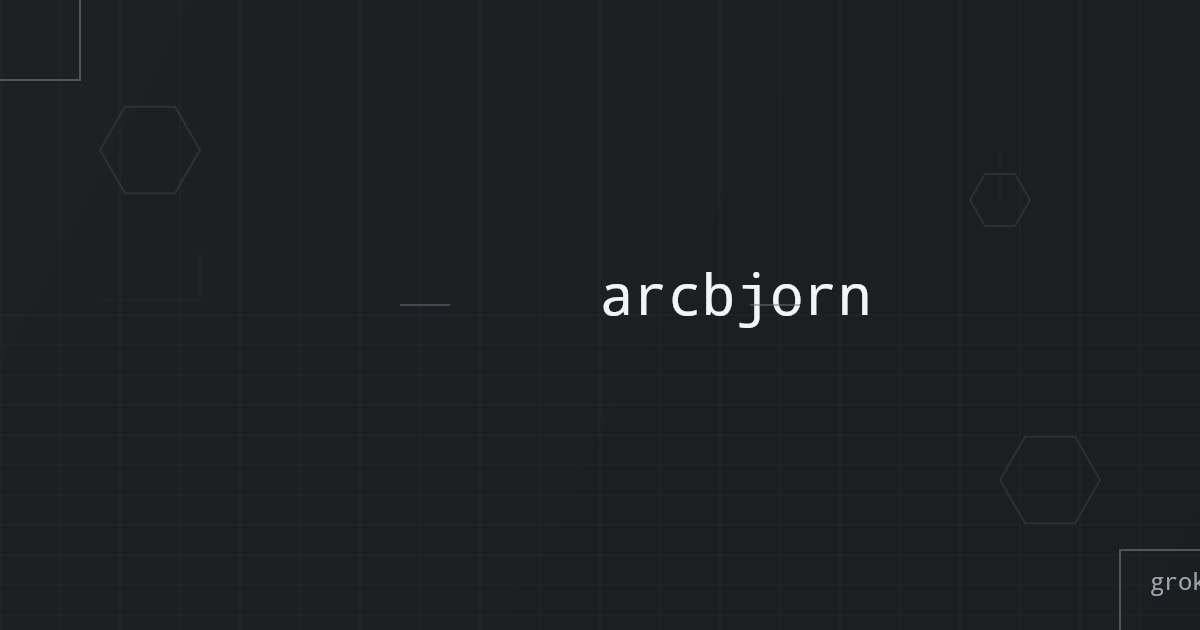
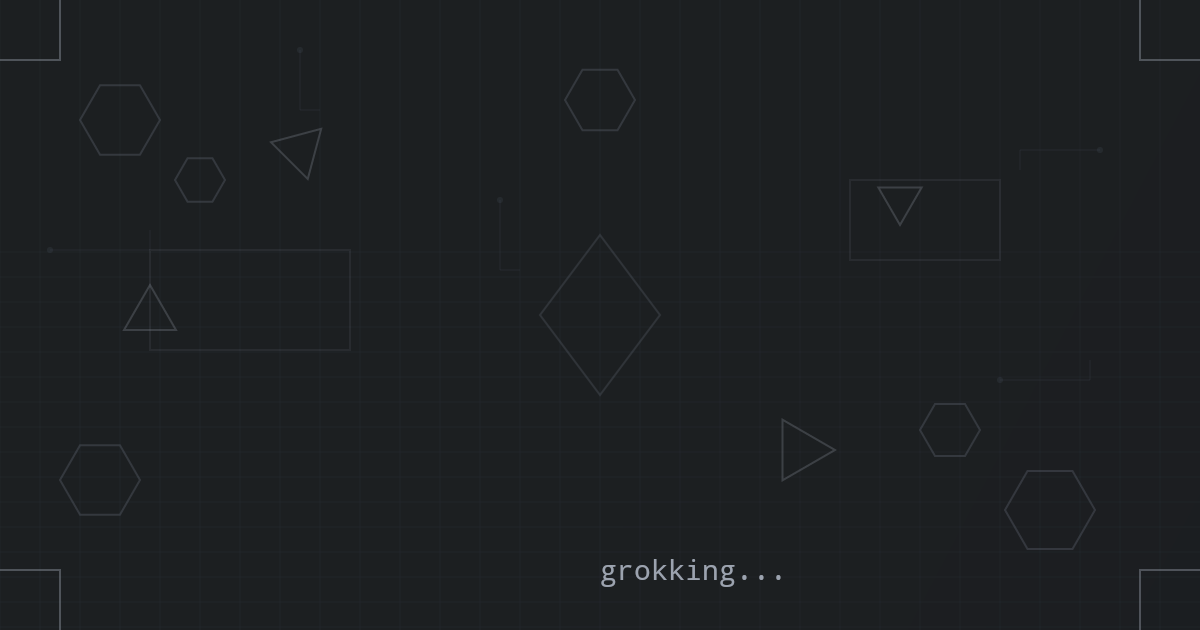
feat: enhance cyberpunk OG image with more shapes
- Add multiple geometric shapes: hexagons, triangles, circuits, frames
- Remove "arcbjorn" text for cleaner visual design
- Move "grokking..." to center bottom position
- Add corner accents on all four corners
- Include diamond shape and rectangular frames
- Maintain monochrome palette with website colors only

diff --git a/scripts/generate-og-image.ts b/scripts/generate-og-image.ts
@@ -13,10 +13,10 @@ ctx.fillRect(0, 0, width, height);
 // Subtle grid effect using website gray
 ctx.strokeStyle = "#374151";
 ctx.lineWidth = 1;
-ctx.globalAlpha = 0.2;
+ctx.globalAlpha = 0.15;
 
 // Vertical lines
-for (let x = 0; x < width; x += 60) {
+for (let x = 0; x < width; x += 40) {
   ctx.beginPath();
   ctx.moveTo(x, 0);
   ctx.lineTo(x, height);
@@ -24,7 +24,7 @@ for (let x = 0; x < width; x += 60) {
 }
 
 // Horizontal lines with perspective
-for (let y = height * 0.5; y < height; y += 30) {
+for (let y = height * 0.4; y < height; y += 25) {
   ctx.beginPath();
   ctx.moveTo(0, y);
   ctx.lineTo(width, y);
@@ -35,31 +35,12 @@ ctx.globalAlpha = 1;
 
 // Very subtle gradient using grays only
 const gradient = ctx.createLinearGradient(0, 0, width, height);
-gradient.addColorStop(0, "rgba(55, 65, 81, 0.1)"); // #374151 with low opacity
-gradient.addColorStop(1, "rgba(31, 41, 55, 0.1)"); // #1f2937 with low opacity
+gradient.addColorStop(0, "rgba(55, 65, 81, 0.05)");
+gradient.addColorStop(1, "rgba(31, 41, 55, 0.1)");
 ctx.fillStyle = gradient;
 ctx.fillRect(0, 0, width, height);
 
-// Geometric shapes in gray
-ctx.strokeStyle = "#9ca3af"; // Website gray color
-ctx.lineWidth = 2;
-ctx.globalAlpha = 0.4;
-
-// Top left corner accent
-ctx.beginPath();
-ctx.moveTo(0, 80);
-ctx.lineTo(80, 80);
-ctx.lineTo(80, 0);
-ctx.stroke();
-
-// Bottom right corner accent
-ctx.beginPath();
-ctx.moveTo(width, height - 80);
-ctx.lineTo(width - 80, height - 80);
-ctx.lineTo(width - 80, height);
-ctx.stroke();
-
-// Hexagon shapes
+// Function to draw various cyberpunk shapes
 function drawHexagon(x: number, y: number, size: number) {
   ctx.beginPath();
   for (let i = 0; i < 6; i++) {
@@ -73,61 +54,123 @@ function drawHexagon(x: number, y: number, size: number) {
   ctx.stroke();
 }
 
-ctx.globalAlpha = 0.2;
-ctx.strokeStyle = "#6b7280"; // Gray-500
-drawHexagon(150, 150, 50);
-drawHexagon(width - 150, height - 150, 50);
-drawHexagon(width - 200, 200, 30);
+function drawTriangle(x: number, y: number, size: number, rotation: number = 0) {
+  ctx.save();
+  ctx.translate(x, y);
+  ctx.rotate(rotation);
+  ctx.beginPath();
+  ctx.moveTo(0, -size);
+  ctx.lineTo(-size * 0.866, size * 0.5);
+  ctx.lineTo(size * 0.866, size * 0.5);
+  ctx.closePath();
+  ctx.stroke();
+  ctx.restore();
+}
 
-// Main text - arcbjorn
-ctx.globalAlpha = 1;
-ctx.fillStyle = "#f3f4f6"; // Website light gray
-ctx.font = "bold 56px monospace";
-ctx.textAlign = "center";
-ctx.fillText("arcbjorn", width / 2, height / 2);
+function drawCircuit(x: number, y: number, length: number, direction: string) {
+  ctx.beginPath();
+  ctx.moveTo(x, y);
+  if (direction === 'right') {
+    ctx.lineTo(x + length, y);
+    ctx.lineTo(x + length, y - 20);
+  } else if (direction === 'left') {
+    ctx.lineTo(x - length, y);
+    ctx.lineTo(x - length, y + 20);
+  } else if (direction === 'down') {
+    ctx.lineTo(x, y + length);
+    ctx.lineTo(x + 20, y + length);
+  }
+  ctx.stroke();
+  
+  // Add connection dots
+  ctx.beginPath();
+  ctx.arc(x, y, 3, 0, Math.PI * 2);
+  ctx.fill();
+}
 
-// Tech accent lines around text in gray
+// Multiple hexagons
+ctx.globalAlpha = 0.3;
 ctx.strokeStyle = "#6b7280";
 ctx.lineWidth = 2;
-ctx.globalAlpha = 0.5;
+drawHexagon(120, 120, 40);
+drawHexagon(200, 180, 25);
+drawHexagon(width - 150, height - 120, 45);
+drawHexagon(width - 250, height - 200, 30);
+drawHexagon(width / 2, 100, 35);
+drawHexagon(100, height - 150, 40);
 
-// Left accent
-ctx.beginPath();
-ctx.moveTo(width / 2 - 200, height / 2 - 10);
-ctx.lineTo(width / 2 - 150, height / 2 - 10);
-ctx.stroke();
+// Triangles
+ctx.globalAlpha = 0.25;
+ctx.strokeStyle = "#9ca3af";
+drawTriangle(300, 150, 30, Math.PI / 4);
+drawTriangle(width - 300, 200, 25, -Math.PI / 3);
+drawTriangle(width / 2 + 200, height - 180, 35, Math.PI / 2);
+drawTriangle(150, height / 2, 30, 0);
 
-// Right accent
-ctx.beginPath();
-ctx.moveTo(width / 2 + 150, height / 2 - 10);
-ctx.lineTo(width / 2 + 200, height / 2 - 10);
-ctx.stroke();
-
-// "grokking" in bottom right corner
-ctx.globalAlpha = 1;
-ctx.fillStyle = "#9ca3af"; // Gray text
-ctx.font = "24px monospace";
-ctx.textAlign = "right";
-ctx.fillText("grokking", width - 50, height - 40);
-
-// Subtle circuit lines
-ctx.globalAlpha = 0.1;
+// Circuit patterns
+ctx.globalAlpha = 0.2;
 ctx.strokeStyle = "#4b5563";
 ctx.lineWidth = 1;
+ctx.fillStyle = "#4b5563";
 
-// Circuit pattern 1
+drawCircuit(50, 250, 100, 'right');
+drawCircuit(width - 100, 150, 80, 'left');
+drawCircuit(300, 50, 60, 'down');
+drawCircuit(width - 200, height - 250, 90, 'right');
+drawCircuit(width / 2 - 100, 200, 70, 'down');
+
+// Corner accents
+ctx.globalAlpha = 0.4;
+ctx.strokeStyle = "#9ca3af";
+ctx.lineWidth = 2;
+
+// All four corners
 ctx.beginPath();
-ctx.moveTo(100, 300);
-ctx.lineTo(200, 300);
-ctx.lineTo(200, 250);
+ctx.moveTo(0, 60);
+ctx.lineTo(60, 60);
+ctx.lineTo(60, 0);
 ctx.stroke();
 
-// Circuit pattern 2
 ctx.beginPath();
-ctx.moveTo(width - 100, 200);
-ctx.lineTo(width - 200, 200);
-ctx.lineTo(width - 200, 150);
+ctx.moveTo(width, 60);
+ctx.lineTo(width - 60, 60);
+ctx.lineTo(width - 60, 0);
 ctx.stroke();
+
+ctx.beginPath();
+ctx.moveTo(0, height - 60);
+ctx.lineTo(60, height - 60);
+ctx.lineTo(60, height);
+ctx.stroke();
+
+ctx.beginPath();
+ctx.moveTo(width, height - 60);
+ctx.lineTo(width - 60, height - 60);
+ctx.lineTo(width - 60, height);
+ctx.stroke();
+
+// Rectangular frames
+ctx.globalAlpha = 0.15;
+ctx.strokeStyle = "#6b7280";
+ctx.strokeRect(150, 250, 200, 100);
+ctx.strokeRect(width - 350, 180, 150, 80);
+
+// Diamond shape
+ctx.globalAlpha = 0.25;
+ctx.beginPath();
+ctx.moveTo(width / 2, height / 2 - 80);
+ctx.lineTo(width / 2 + 60, height / 2);
+ctx.lineTo(width / 2, height / 2 + 80);
+ctx.lineTo(width / 2 - 60, height / 2);
+ctx.closePath();
+ctx.stroke();
+
+// "grokking..." in center bottom
+ctx.globalAlpha = 1;
+ctx.fillStyle = "#9ca3af";
+ctx.font = "28px monospace";
+ctx.textAlign = "center";
+ctx.fillText("grokking...", width / 2, height - 50);
 
 // Save the image
 const buffer = canvas.toBuffer("image/png");
